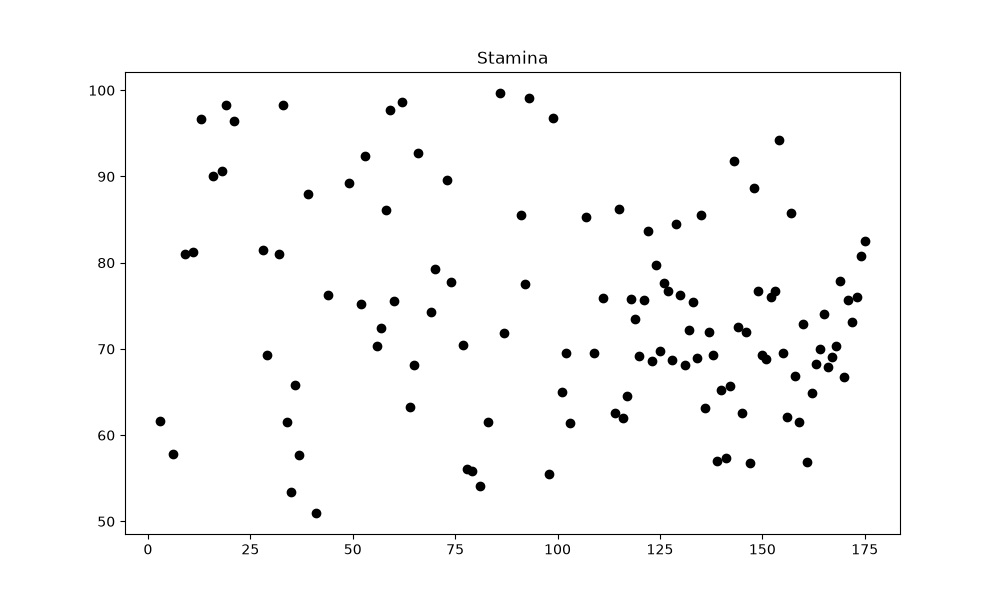
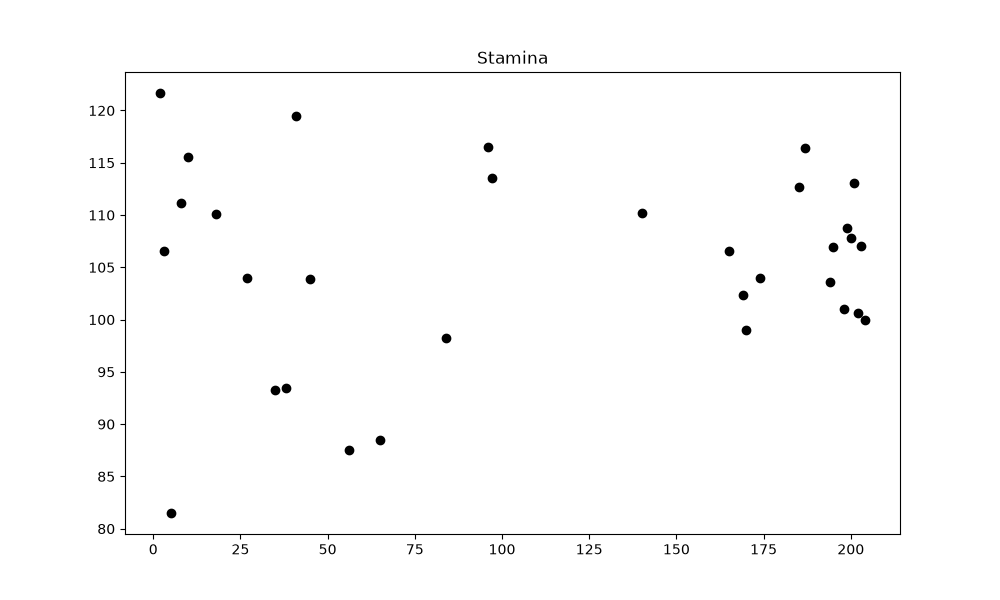
Organismクラスに性別と遺伝子ドライブの保持を追加し、繁殖メソッドを修正。体力の定数を更新。main.pyで初期個体生成のロジックを変更。requirements.txtを追加。

diff --git a/base_code/main.py b/base_code/main.py
@@ -1,11 +1,7 @@
 import pygame
 import random
 import numpy as np
-
-try:
-    import matplotlib.pyplot as plt
-except ImportError:
-    plt = None
+import matplotlib.pyplot as plt
 
 from model.organism import Organism
 
@@ -18,8 +14,8 @@ FOOD_COLOR = (255, 220, 50)
 FOOD_RADIUS = 4
 FOOD_EAT_RADIUS = 15
 REMAINING_INDIVIDUALS = 10
-REPRODUCTION_DISTANCE = 5
-REPRODUCTION_COOLDOWN = 30
+REPRODUCTION_DISTANCE = 5 #繁殖できる2個体の距離の最大値
+REPRODUCTION_COOLDOWN = 30 #各個体の繁殖クールダウンフレーム
 
 class Food:
     def __init__(self, position):
@@ -74,16 +70,25 @@ def display_genes(org_list):
 
 
 def main():
-    width, height = 1000, 1000
+    width, height = 500, 500
     flame_count = 0
     max_flame = 600
+    gender = [1, 2] # 1:オス, 2:メス
     if VISUALIZE:
         pygame.init()
         screen = pygame.display.set_mode((width, height))
         pygame.display.set_caption("Organism Simulation")
         clock = pygame.time.Clock()
 
-    org_list = [Organism(i, width, height) for i in range(ORG_NUM)]
+    #初期個体の生成
+    org_list = []
+    for i in range(ORG_NUM):
+        if (i + 1) % 20 == 0:
+            genotype = ("W","D") #遺伝子ドライブ保持個体を20個体に1個体ずつ生成*5個体はこっち
+        else:
+            genotype = ("W","W") #遺伝子ドライブ非保持個体*95個体はこっち
+        org = Organism(i, width, height, random.choice(gender), drive_genotype=genotype)
+        org_list.append(org)
     food_list = [Food((random.uniform(0, width), random.uniform(0, height))) for _ in range(FOOD_NUM)]
 
 
@@ -105,13 +110,16 @@ def main():
         new_orgs = []
         for i in range(len(org_list)):
             for j in range(i + 1, len(org_list)):
+                if org_list[i].gender == org_list[j].gender:
+                    continue
+
                 org_a = org_list[i]
                 org_b = org_list[j]
 
                 if np.linalg.norm(org_a.position - org_b.position) <= REPRODUCTION_DISTANCE:
                     if org_a.reproduction_cooldown <= 0 and org_b.reproduction_cooldown <= 0:
                         next_id = max([org.org_id for org in org_list] + [org.org_id for org in new_orgs], default = -1) + 1
-                        child = org_a.reproduce(next_id, width, height, org_b, flame_count)
+                        child = org_a.reproduce(next_id, width, height, random.choice(gender), org_b, flame_count, org_a.drive_genotype, org_b.drive_genotype)
                         new_orgs.append(child)
                         org_a.reproduction_cooldown = REPRODUCTION_COOLDOWN
                         org_b.reproduction_cooldown = REPRODUCTION_COOLDOWN
@@ -168,6 +176,20 @@ def main():
         if flame_count >= max_flame:
             print_breeding(org_list)
             display_genes(org_list)
+
+            #生き残った個体の番号とドライブを保有してるかの情報確認
+            ikinokori = [0, 0, 0]
+            for org in org_list:     
+                print(f"Org {org.org_id}: {org.drive_genotype}")
+                if org.org_id > 99:
+                    if org.drive_genotype == ["W","W"]:
+                        ikinokori[0] += 1
+                    elif org.drive_genotype == ["D","D"]:
+                        ikinokori[2] += 1
+                    else:
+                        ikinokori[1] += 1
+            print(f"生き残った個体の遺伝子情報: {ikinokori}")
+            
             pygame.time.wait(1000)
 
             if VISUALIZE:

diff --git a/base_code/model/organism.py b/base_code/model/organism.py
@@ -9,8 +9,8 @@ RANGE_OF_DIRECTIONS = [0, 360]
 ORGANISM_COLORS = ['#FFA5CC', '#A0D4FF']
 
 #体力の定数(min, max)
-STAMINA_MIN = 50
-STAMINA_MAX = 100
+STAMINA_MIN = 75
+STAMINA_MAX = 125
 
 #移動速度の最大最小値
 SPEED_MIN = 1
@@ -26,18 +26,20 @@ REPRODUCTION_COOLDOWN = 30
 
 
 class Organism:
-    def __init__(self, org_id, width, height, initial_genes=None):
+    def __init__(self, org_id, width, height, gender, initial_genes=None, drive_genotype=("W","W")):
         self.org_id = org_id
         self.width = width
         self.height = height
+        self.gender = gender
         self.direction = random.uniform(
             np.radians(RANGE_OF_DIRECTIONS[0]),
             np.radians(RANGE_OF_DIRECTIONS[1])
         )
+        self.drive_genotype = drive_genotype #遺伝子ドライブの保持
         #個体の初期位置をランダムに設定
         self.position = np.array([random.uniform(0, width), random.uniform(0, height)])
         if initial_genes is None:
-            #体力遺伝子の生成と移動速度遺伝子と餌感知範囲遺伝子の生成
+            #体力遺伝子の生成と移動速度遺伝子と餌感知範囲遺伝子を生成するところ
             self.genes = {"stamina": random.uniform(STAMINA_MIN, STAMINA_MAX),
                         "detection_range": random.uniform(RANGE_FOOD_DETECTION_MIN, RANGE_FOOD_DETECTION_MAX),
                         "speed": random.uniform(SPEED_MIN, SPEED_MAX)}
@@ -63,7 +65,7 @@ class Organism:
     def _clip_gene(self, value, min_value, max_value):
         return max(min_value, min(max_value, value))
     
-    def reproduce(self, child_id, width, height, partner, current_frame):
+    def reproduce(self, child_id, width, height, gender, partner, current_frame, a_drive, b_drive):
         # 親からの遺伝子の平均を計算してこの遺伝子とする
         child_genes = {
             "stamina": self._clip_gene(
@@ -83,8 +85,26 @@ class Organism:
                 ),
         }
 
-        child = Organism(child_id, width, height, initial_genes=child_genes)
+        #保持する遺伝子情報の決定(["W","D"]みたいな)
+        type_list = []
+        for i in [a_drive, b_drive]:
+            if i == ["W","W"]:
+                a = "W"
+                type_list.append(a)
+            elif i == ["D","D"]:
+                a = "D"
+                type_list.append(a)
+            else: # WDまたはDWの場合
+                if random.random() < 0.9: # いったんDは90%の確率で子に遺伝
+                    a = "D"
+                    type_list.append(a)
+                else:
+                    a = "W"
+                    type_list.append(a)
+
+        child = Organism(child_id, width, height, gender, initial_genes=child_genes, drive_genotype=type_list)
         child.birth_frame = current_frame
+
         # 子の位置を親の中間に設定
         child.position = np.array([
             (self.position[0] + partner.position[0]) / 2,
@@ -133,7 +153,7 @@ class Organism:
             self.position[1] = np.abs(self.position[1] - self.height)
 
         #体力消費の処理
-        self.stamina -= int(0.5 * (self.speed / SPEED_MIN)) # 移動速度に応じて体力を消費
+        self.stamina -= int(0.7 * (self.speed / SPEED_MIN)) # 移動速度に応じて体力を消費
         if self.stamina <= 0:
             self.stamina = 0
             self.velocity = np.zeros(2)
